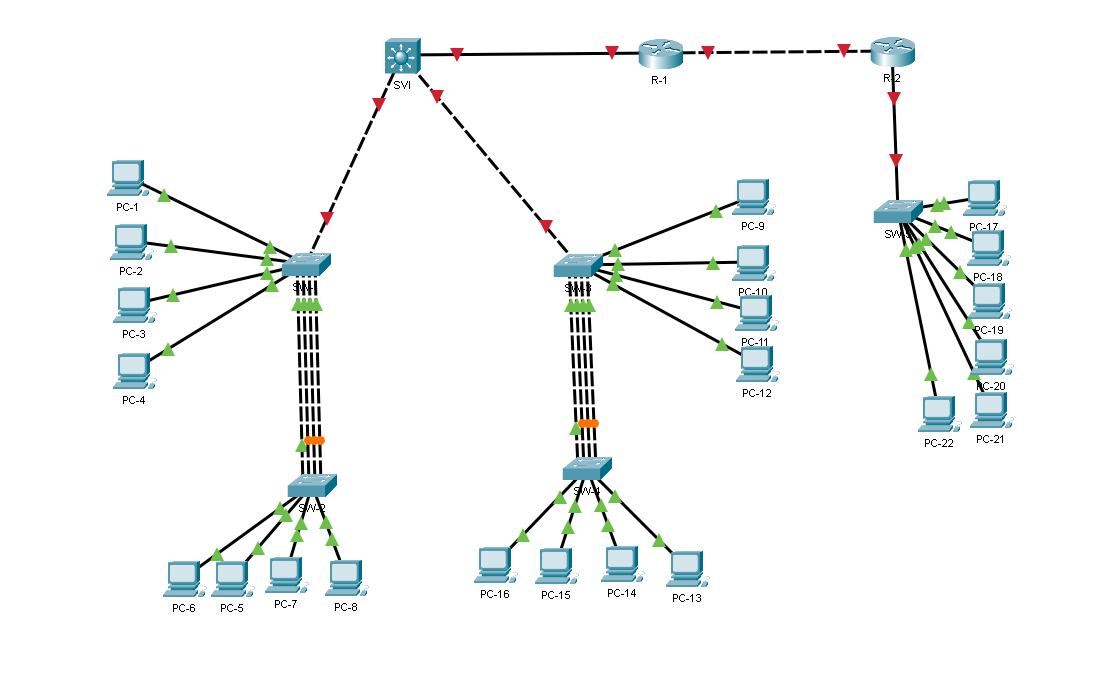
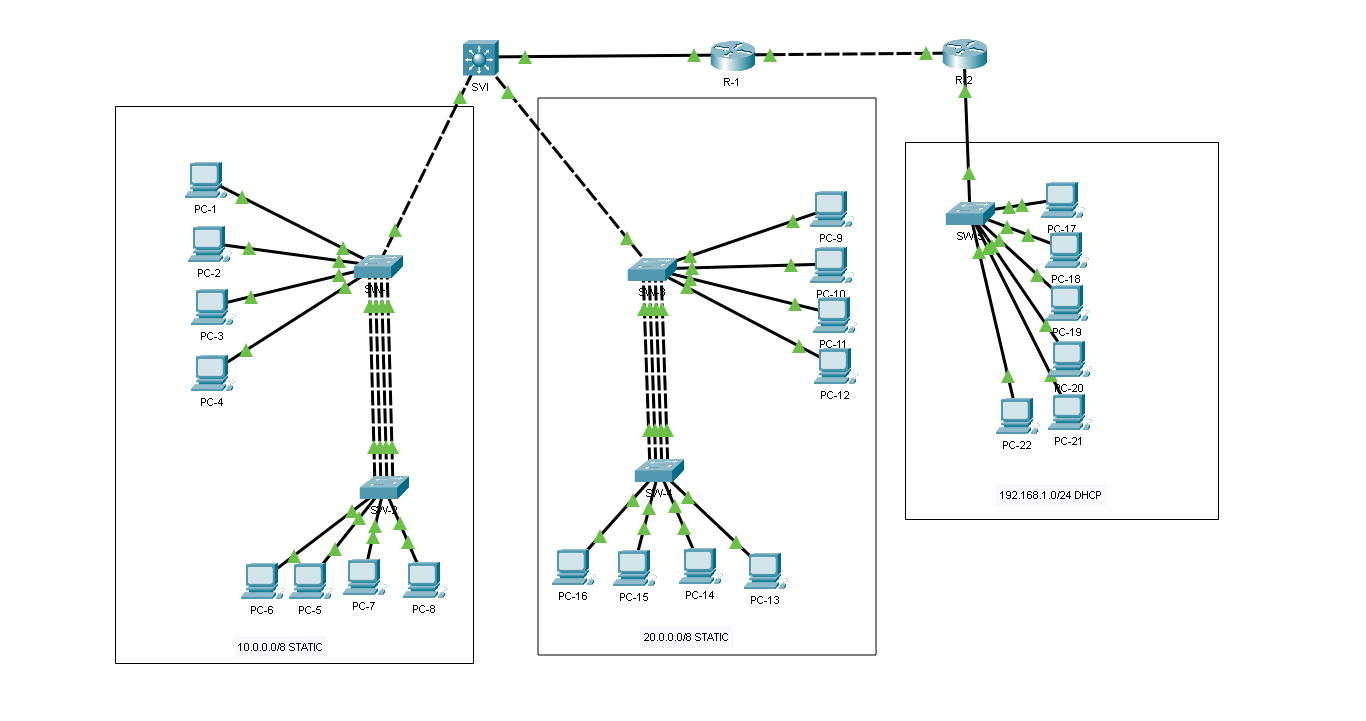
readme

Changed region(s): [[0.3038, 0.0311, 0.9115, 0.9022], [0.0912, 0.2178, 0.3342, 0.9333], [0.7292, 0.6844, 0.79, 0.7156]]

diff --git a/README.md b/README.md
@@ -294,10 +294,10 @@ SVI(config-if)#exit
 ```
 
 ```js
-Router(config)#interface g0/0/1
-Router(config-if)#ip address 1.1.1.1 255.0.0.0
-Router(config-if)#no sh
-Router(config-if)#
+R-1(config)#interface g0/0/1
+R-1(config-if)#ip address 1.1.1.1 255.0.0.0
+R-1(config-if)#no sh
+R-1(config-if)#
 
 %LINK-5-CHANGED: Interface GigabitEthernet0/0/1, changed state to up
 
@@ -307,10 +307,10 @@ Router(config-if)#exit
 ```
 
 ```js
-Router(config)#interface g0/0/1
-Router(config-if)#ip address 192.168.1.1 255.255.255.0
-Router(config-if)#no sh
-Router(config-if)#
+R-1(config)#interface g0/0/1
+R-1(config-if)#ip address 192.168.1.1 255.255.255.0
+R-1(config-if)#no sh
+R-1(config-if)#
 
 %LINK-5-CHANGED: Interface GigabitEthernet0/0/1, changed state to up 
 
@@ -348,3 +348,45 @@ R-2(config)#ip dhcp relay information trust-all
 R-2(config)#exit
 ```
 
+```js
+R-1(config)#interface gigabitEthernet 0/0/0
+R-1(config-if)#ip address 2.2.2.1 255.0.0.0
+R-1(config-if)#no sh
+
+R-1(config-if)#
+
+%LINK-5-CHANGED: Interface GigabitEthernet0/0/0, changed state to up
+
+%LINEPROTO-5-UPDOWN: Line protocol on Interface GigabitEthernet0/0/0, changed state to up
+
+Router(config-if)#
+```
+
+```js
+R-2(config)#router eigrp 1
+R-2(config-router)#network 192.168.1.0
+R-2(config-router)#network 2.0.0.0
+R-2(config-router)#no auto-summary
+R-2(config-router)#exit
+```
+
+```js
+R-1(config)#router eigrp 1
+R-1(config-router)#network 2.0.0.0
+R-1(config-router)#
+
+%DUAL-5-NBRCHANGE: IP-EIGRP 1: Neighbor 2.2.2.2 (GigabitEthernet0/0/0) is up: new adjacency
+
+R-1(config-router)#network 1.0.0.0
+R-1(config-router)#no auto-summary
+R-1(config-router)#exit
+```
+
+```js
+SVI(config)#router eigrp 1
+SVI(config-router)#network 1.0.0.0
+SVI(config-router)#network 10.0.0.0
+SVI(config-router)#network 20.0.0.0
+SVI(config-router)#no auto-summary
+SVI(config-router)#exit
+```
